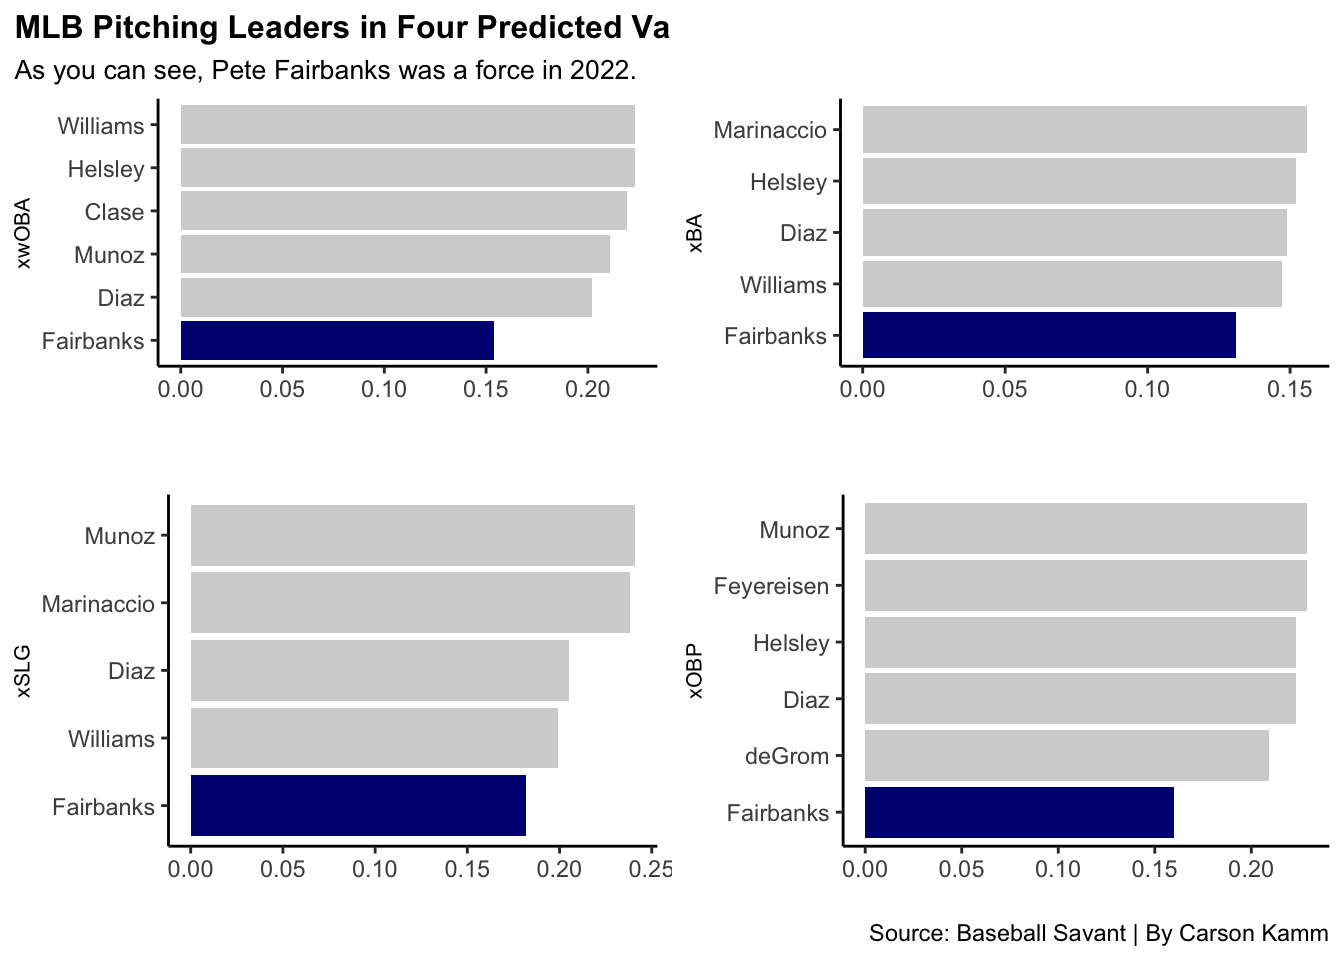
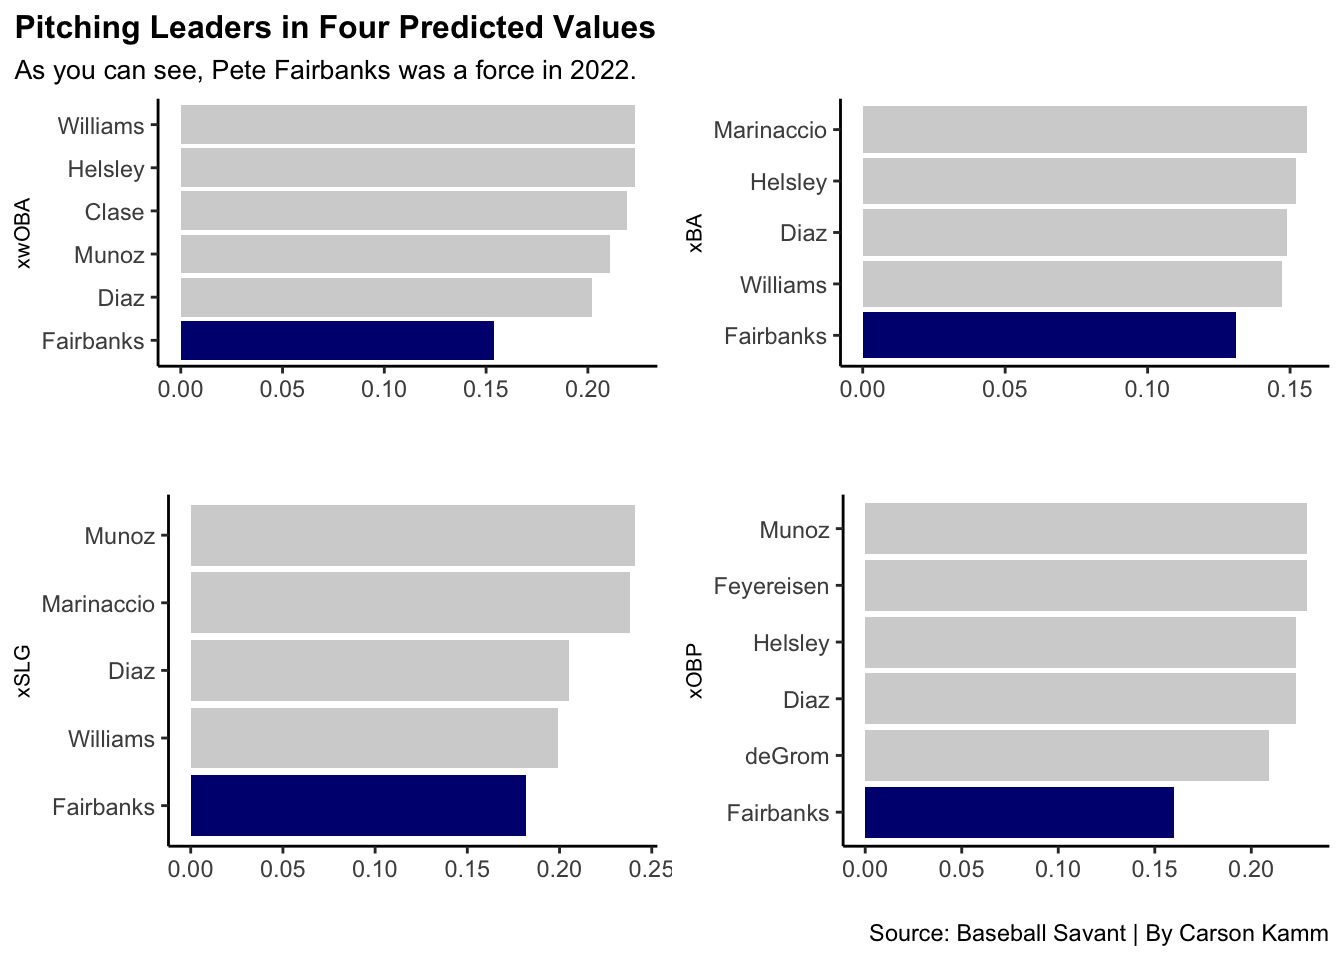
Fix

Changed region(s): [[0.0, 0.0, 0.5, 0.0625]]

diff --git a/posts/is-pete-fairbanks-the-most-underrated-pitcher-in-baseball/index.html b/posts/is-pete-fairbanks-the-most-underrated-pitcher-in-baseball/index.html
@@ -272,7 +272,7 @@ code span.wa { color: #60a0b0; font-weight: bold; font-style: italic; } /* Warni
 <span id="cb2-14"><a href="#cb2-14" aria-hidden="true" tabindex="-1"></a>  <span class="fu">geom_bar</span>(<span class="at">data=</span>topxwoba, <span class="fu">aes</span>(<span class="at">x=</span><span class="fu">reorder</span>(last_name, xwoba), <span class="at">weight=</span>xwoba), <span class="at">fill=</span><span class="st">"light grey"</span>) <span class="sc">+</span></span>
 <span id="cb2-15"><a href="#cb2-15" aria-hidden="true" tabindex="-1"></a>  <span class="fu">geom_bar</span>(<span class="at">data=</span>fairbanks, <span class="fu">aes</span>(<span class="at">x=</span><span class="fu">reorder</span>(last_name, xwoba), <span class="at">weight=</span>xwoba), <span class="at">fill=</span><span class="st">"navy"</span>) <span class="sc">+</span></span>
 <span id="cb2-16"><a href="#cb2-16" aria-hidden="true" tabindex="-1"></a>  <span class="fu">coord_flip</span>() <span class="sc">+</span></span>
-<span id="cb2-17"><a href="#cb2-17" aria-hidden="true" tabindex="-1"></a>  <span class="fu">labs</span>(<span class="at">title =</span> <span class="st">"MLB Pitching Leaders in Four Predicted Values"</span>, <span class="at">subtitle =</span> <span class="st">"As you can see, Pete Fairbanks was a force in 2022."</span>, <span class="at">x=</span><span class="st">"xwOBA"</span>, <span class="at">y=</span><span class="st">""</span>, <span class="at">caption =</span> <span class="st">""</span>) <span class="sc">+</span></span>
+<span id="cb2-17"><a href="#cb2-17" aria-hidden="true" tabindex="-1"></a>  <span class="fu">labs</span>(<span class="at">title =</span> <span class="st">"Pitching Leaders in Four Predicted Values"</span>, <span class="at">subtitle =</span> <span class="st">"As you can see, Pete Fairbanks was a force in 2022."</span>, <span class="at">x=</span><span class="st">"xwOBA"</span>, <span class="at">y=</span><span class="st">""</span>, <span class="at">caption =</span> <span class="st">""</span>) <span class="sc">+</span></span>
 <span id="cb2-18"><a href="#cb2-18" aria-hidden="true" tabindex="-1"></a>  <span class="fu">theme_classic</span>() <span class="sc">+</span> </span>
 <span id="cb2-19"><a href="#cb2-19" aria-hidden="true" tabindex="-1"></a>  <span class="fu">theme</span>(</span>
 <span id="cb2-20"><a href="#cb2-20" aria-hidden="true" tabindex="-1"></a>    <span class="at">plot.title =</span> <span class="fu">element_text</span>(<span class="at">size =</span> <span class="dv">12</span>, <span class="at">face =</span> <span class="st">"bold"</span>),</span>
@@ -381,12 +381,12 @@ code span.wa { color: #60a0b0; font-weight: bold; font-style: italic; } /* Warni
 </details>
 <div class="cell-output-display">
 
-<div id="xhrwvcuano" style="padding-left:0px;padding-right:0px;padding-top:10px;padding-bottom:10px;overflow-x:auto;overflow-y:auto;width:auto;height:auto;">
+<div id="uvxkmxbaom" style="padding-left:0px;padding-right:0px;padding-top:10px;padding-bottom:10px;overflow-x:auto;overflow-y:auto;width:auto;height:auto;">
 <style>html {
   font-family: -apple-system, BlinkMacSystemFont, 'Segoe UI', Roboto, Oxygen, Ubuntu, Cantarell, 'Helvetica Neue', 'Fira Sans', 'Droid Sans', Arial, sans-serif;
 }
 
-:where(#xhrwvcuano) .gt_table {
+:where(#uvxkmxbaom) .gt_table {
   display: table;
   border-collapse: collapse;
   margin-left: auto;
@@ -411,7 +411,7 @@ code span.wa { color: #60a0b0; font-weight: bold; font-style: italic; } /* Warni
   border-left-color: #D3D3D3;
 }
 
-:where(#xhrwvcuano) .gt_heading {
+:where(#uvxkmxbaom) .gt_heading {
   background-color: #FFFFFF;
   text-align: center;
   border-bottom-color: #FFFFFF;
@@ -423,12 +423,12 @@ code span.wa { color: #60a0b0; font-weight: bold; font-style: italic; } /* Warni
   border-right-color: #D3D3D3;
 }
 
-:where(#xhrwvcuano) .gt_caption {
+:where(#uvxkmxbaom) .gt_caption {
   padding-top: 4px;
   padding-bottom: 4px;
 }
 
-:where(#xhrwvcuano) .gt_title {
+:where(#uvxkmxbaom) .gt_title {
   color: #333333;
   font-size: 125%;
   font-weight: initial;
@@ -440,7 +440,7 @@ code span.wa { color: #60a0b0; font-weight: bold; font-style: italic; } /* Warni
   border-bottom-width: 0;
 }
 
-:where(#xhrwvcuano) .gt_subtitle {
+:where(#uvxkmxbaom) .gt_subtitle {
   color: #333333;
   font-size: 85%;
   font-weight: initial;
@@ -452,13 +452,13 @@ code span.wa { color: #60a0b0; font-weight: bold; font-style: italic; } /* Warni
   border-top-width: 0;
 }
 
-:where(#xhrwvcuano) .gt_bottom_border {
+:where(#uvxkmxbaom) .gt_bottom_border {
   border-bottom-style: solid;
   border-bottom-width: 2px;
   border-bottom-color: #D3D3D3;
 }
 
-:where(#xhrwvcuano) .gt_col_headings {
+:where(#uvxkmxbaom) .gt_col_headings {
   border-top-style: solid;
   border-top-width: 2px;
   border-top-color: #D3D3D3;
@@ -473,7 +473,7 @@ code span.wa { color: #60a0b0; font-weight: bold; font-style: italic; } /* Warni
   border-right-color: #D3D3D3;
 }
 
-:where(#xhrwvcuano) .gt_col_heading {
+:where(#uvxkmxbaom) .gt_col_heading {
   color: #333333;
   background-color: #FFFFFF;
   font-size: 100%;
@@ -493,7 +493,7 @@ code span.wa { color: #60a0b0; font-weight: bold; font-style: italic; } /* Warni
   overflow-x: hidden;
 }
 
-:where(#xhrwvcuano) .gt_column_spanner_outer {
+:where(#uvxkmxbaom) .gt_column_spanner_outer {
   color: #333333;
   background-color: #FFFFFF;
   font-size: 100%;
@@ -505,15 +505,15 @@ code span.wa { color: #60a0b0; font-weight: bold; font-style: italic; } /* Warni
   padding-right: 4px;
 }
 
-:where(#xhrwvcuano) .gt_column_spanner_outer:first-child {
+:where(#uvxkmxbaom) .gt_column_spanner_outer:first-child {
   padding-left: 0;
 }
 
-:where(#xhrwvcuano) .gt_column_spanner_outer:last-child {
+:where(#uvxkmxbaom) .gt_column_spanner_outer:last-child {
   padding-right: 0;
 }
 
-:where(#xhrwvcuano) .gt_column_spanner {
+:where(#uvxkmxbaom) .gt_column_spanner {
   border-bottom-style: solid;
   border-bottom-width: 2px;
   border-bottom-color: #D3D3D3;
@@ -525,7 +525,7 @@ code span.wa { color: #60a0b0; font-weight: bold; font-style: italic; } /* Warni
   width: 100%;
 }
 
-:where(#xhrwvcuano) .gt_group_heading {
+:where(#uvxkmxbaom) .gt_group_heading {
   padding-top: 8px;
   padding-bottom: 8px;
   padding-left: 5px;
@@ -551,7 +551,7 @@ code span.wa { color: #60a0b0; font-weight: bold; font-style: italic; } /* Warni
   text-align: left;
 }
 
-:where(#xhrwvcuano) .gt_empty_group_heading {
+:where(#uvxkmxbaom) .gt_empty_group_heading {
   padding: 0.5px;
   color: #333333;
   background-color: #FFFFFF;
@@ -566,15 +566,15 @@ code span.wa { color: #60a0b0; font-weight: bold; font-style: italic; } /* Warni
   vertical-align: middle;
 }
 
-:where(#xhrwvcuano) .gt_from_md > :first-child {
+:where(#uvxkmxbaom) .gt_from_md > :first-child {
   margin-top: 0;
 }
 
-:where(#xhrwvcuano) .gt_from_md > :last-child {
+:where(#uvxkmxbaom) .gt_from_md > :last-child {
   margin-bottom: 0;
 }
 
-:where(#xhrwvcuano) .gt_row {
+:where(#uvxkmxbaom) .gt_row {
   padding-top: 8px;
   padding-bottom: 8px;
   padding-left: 5px;
@@ -593,7 +593,7 @@ code span.wa { color: #60a0b0; font-weight: bold; font-style: italic; } /* Warni
   overflow-x: hidden;
 }
 
-:where(#xhrwvcuano) .gt_stub {
+:where(#uvxkmxbaom) .gt_stub {
   color: #333333;
   background-color: #FFFFFF;
   font-size: 100%;
@@ -606,7 +606,7 @@ code span.wa { color: #60a0b0; font-weight: bold; font-style: italic; } /* Warni
   padding-right: 5px;
 }
 
-:where(#xhrwvcuano) .gt_stub_row_group {
+:where(#uvxkmxbaom) .gt_stub_row_group {
   color: #333333;
   background-color: #FFFFFF;
   font-size: 100%;
@@ -620,11 +620,11 @@ code span.wa { color: #60a0b0; font-weight: bold; font-style: italic; } /* Warni
   vertical-align: top;
 }
 
-:where(#xhrwvcuano) .gt_row_group_first td {
+:where(#uvxkmxbaom) .gt_row_group_first td {
   border-top-width: 2px;
 }
 
-:where(#xhrwvcuano) .gt_summary_row {
+:where(#uvxkmxbaom) .gt_summary_row {
   color: #333333;
   background-color: #FFFFFF;
   text-transform: inherit;
@@ -634,16 +634,16 @@ code span.wa { color: #60a0b0; font-weight: bold; font-style: italic; } /* Warni
   padding-right: 5px;
 }
 
-:where(#xhrwvcuano) .gt_first_summary_row {
+:where(#uvxkmxbaom) .gt_first_summary_row {
   border-top-style: solid;
   border-top-color: #D3D3D3;
 }
 
-:where(#xhrwvcuano) .gt_first_summary_row.thick {
+:where(#uvxkmxbaom) .gt_first_summary_row.thick {
   border-top-width: 2px;
 }
 
-:where(#xhrwvcuano) .gt_last_summary_row {
+:where(#uvxkmxbaom) .gt_last_summary_row {
   padding-top: 8px;
   padding-bottom: 8px;
   padding-left: 5px;
@@ -653,7 +653,7 @@ code span.wa { color: #60a0b0; font-weight: bold; font-style: italic; } /* Warni
   border-bottom-color: #D3D3D3;
 }
 
-:where(#xhrwvcuano) .gt_grand_summary_row {
+:where(#uvxkmxbaom) .gt_grand_summary_row {
   color: #333333;
   background-color: #FFFFFF;
   text-transform: inherit;
@@ -663,7 +663,7 @@ code span.wa { color: #60a0b0; font-weight: bold; font-style: italic; } /* Warni
   padding-right: 5px;
 }
 
-:where(#xhrwvcuano) .gt_first_grand_summary_row {
+:where(#uvxkmxbaom) .gt_first_grand_summary_row {
   padding-top: 8px;
   padding-bottom: 8px;
   padding-left: 5px;
@@ -673,11 +673,11 @@ code span.wa { color: #60a0b0; font-weight: bold; font-style: italic; } /* Warni
   border-top-color: #D3D3D3;
 }
 
-:where(#xhrwvcuano) .gt_striped {
+:where(#uvxkmxbaom) .gt_striped {
   background-color: rgba(128, 128, 128, 0.05);
 }
 
-:where(#xhrwvcuano) .gt_table_body {
+:where(#uvxkmxbaom) .gt_table_body {
   border-top-style: solid;
   border-top-width: 2px;
   border-top-color: #D3D3D3;
@@ -686,7 +686,7 @@ code span.wa { color: #60a0b0; font-weight: bold; font-style: italic; } /* Warni
   border-bottom-color: #D3D3D3;
 }
 
-:where(#xhrwvcuano) .gt_footnotes {
+:where(#uvxkmxbaom) .gt_footnotes {
   color: #333333;
   background-color: #FFFFFF;
   border-bottom-style: none;
@@ -700,7 +700,7 @@ code span.wa { color: #60a0b0; font-weight: bold; font-style: italic; } /* Warni
   border-right-color: #D3D3D3;
 }
 
-:where(#xhrwvcuano) .gt_footnote {
+:where(#uvxkmxbaom) .gt_footnote {
   margin: 0px;
   font-size: 90%;
   padding-left: 4px;
@@ -709,7 +709,7 @@ code span.wa { color: #60a0b0; font-weight: bold; font-style: italic; } /* Warni
   padding-right: 5px;
 }
 
-:where(#xhrwvcuano) .gt_sourcenotes {
+:where(#uvxkmxbaom) .gt_sourcenotes {
   color: #333333;
   background-color: #FFFFFF;
   border-bottom-style: none;
@@ -723,7 +723,7 @@ code span.wa { color: #60a0b0; font-weight: bold; font-style: italic; } /* Warni
   border-right-color: #D3D3D3;
 }
 
-:where(#xhrwvcuano) .gt_sourcenote {
+:where(#uvxkmxbaom) .gt_sourcenote {
   font-size: 90%;
   padding-top: 4px;
   padding-bottom: 4px;
@@ -731,64 +731,64 @@ code span.wa { color: #60a0b0; font-weight: bold; font-style: italic; } /* Warni
   padding-right: 5px;
 }
 
-:where(#xhrwvcuano) .gt_left {
+:where(#uvxkmxbaom) .gt_left {
   text-align: left;
 }
 
-:where(#xhrwvcuano) .gt_center {
+:where(#uvxkmxbaom) .gt_center {
   text-align: center;
 }
 
-:where(#xhrwvcuano) .gt_right {
+:where(#uvxkmxbaom) .gt_right {
   text-align: right;
   font-variant-numeric: tabular-nums;
 }
 
-:where(#xhrwvcuano) .gt_font_normal {
+:where(#uvxkmxbaom) .gt_font_normal {
   font-weight: normal;
 }
 
-:where(#xhrwvcuano) .gt_font_bold {
+:where(#uvxkmxbaom) .gt_font_bold {
   font-weight: bold;
 }
 
-:where(#xhrwvcuano) .gt_font_italic {
+:where(#uvxkmxbaom) .gt_font_italic {
   font-style: italic;
 }
 
-:where(#xhrwvcuano) .gt_super {
+:where(#uvxkmxbaom) .gt_super {
   font-size: 65%;
 }
 
-:where(#xhrwvcuano) .gt_footnote_marks {
+:where(#uvxkmxbaom) .gt_footnote_marks {
   font-style: italic;
   font-weight: normal;
   font-size: 75%;
   vertical-align: 0.4em;
 }
 
-:where(#xhrwvcuano) .gt_asterisk {
+:where(#uvxkmxbaom) .gt_asterisk {
   font-size: 100%;
   vertical-align: 0;
 }
 
-:where(#xhrwvcuano) .gt_indent_1 {
+:where(#uvxkmxbaom) .gt_indent_1 {
   text-indent: 5px;
 }
 
-:where(#xhrwvcuano) .gt_indent_2 {
+:where(#uvxkmxbaom) .gt_indent_2 {
   text-indent: 10px;
 }
 
-:where(#xhrwvcuano) .gt_indent_3 {
+:where(#uvxkmxbaom) .gt_indent_3 {
   text-indent: 15px;
 }
 
-:where(#xhrwvcuano) .gt_indent_4 {
+:where(#uvxkmxbaom) .gt_indent_4 {
   text-indent: 20px;
 }
 
-:where(#xhrwvcuano) .gt_indent_5 {
+:where(#uvxkmxbaom) .gt_indent_5 {
   text-indent: 25px;
 }
 </style>

diff --git a/index.html b/index.html
@@ -171,7 +171,7 @@ ul.task-list li input[type="checkbox"] {
 
 <div class="quarto-listing quarto-listing-container-default" id="listing-listing">
 <div class="list quarto-listing-default">
-<div class="quarto-post image-right" data-index="0" data-categories="baseball,pitchers,rays" data-listing-date-sort="1681621200000" data-listing-file-modified-sort="1681524715997" data-listing-reading-time-sort="5.7">
+<div class="quarto-post image-right" data-index="0" data-categories="baseball,pitchers,rays" data-listing-date-sort="1681621200000" data-listing-file-modified-sort="1681524932441" data-listing-reading-time-sort="5.695">
 <div class="thumbnail">
 <p><a href="./posts/is-pete-fairbanks-the-most-underrated-pitcher-in-baseball/index.html"> <img src="./posts/is-pete-fairbanks-the-most-underrated-pitcher-in-baseball/image.png" class="thumnail-image"> </a></p>
 </div>
